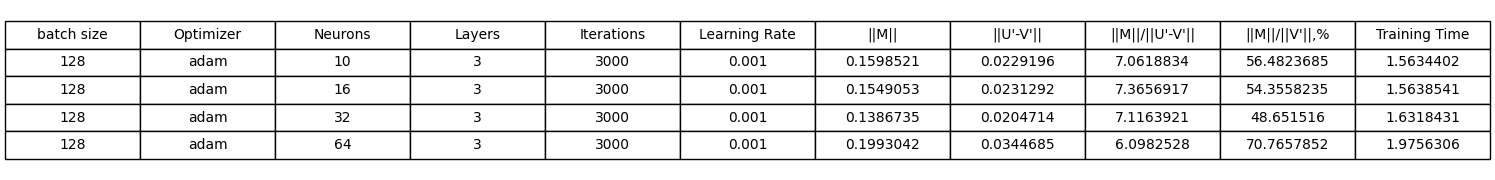
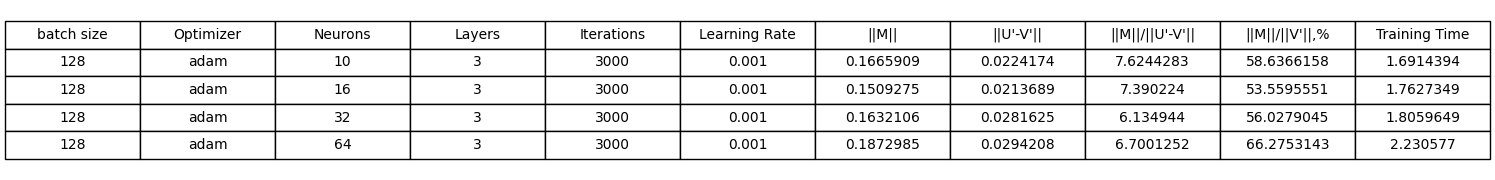
Fix compute error estimate for non default q and p

diff --git a/main.py b/main.py
@@ -207,7 +207,7 @@ if __name__ == "__main__":
     ###################################################
 
 
-    ########################### TEST №1 ###########################
+    # ########################## TEST №1 ###########################
     # filename = "(pi**2)*sin(pi*x)"
 
     # spatial_range = [0, 1]
@@ -217,9 +217,9 @@ if __name__ == "__main__":
 
     # def U(x):
     #     return tf.sin(np.pi * x)
-    ########################### TEST №1 ###########################
+    # ########################## TEST №1 ###########################
 
-    ########################### TEST №2 ###########################
+    # ########################## TEST №2 ###########################
     # filename = "-1+1"
 
     # spatial_range = [-1, 1]
@@ -229,9 +229,9 @@ if __name__ == "__main__":
 
     # def U(x):
     #     return tf.where(x < 0, 0.5 * x * (x + 1), -0.5 * x * (x - 1))
-    ########################### TEST №2 ###########################
+    # ########################## TEST №2 ###########################
 
-    ########################### TEST №3 ###########################
+    # ########################## TEST №3 ###########################
     # filename = "oscillating"
 
     # spatial_range = [0, 1]
@@ -241,9 +241,9 @@ if __name__ == "__main__":
 
     # def U(x):
     #     return tf.sin(10 * np.pi * x)
-    ########################### TEST №3 ###########################
+    # ########################## TEST №3 ###########################
 
-    ########################### TEST №4 ###########################
+    # ########################## TEST №4 ###########################
     # filename = "Peak"
 
     # spatial_range = [-5, 5]
@@ -256,7 +256,7 @@ if __name__ == "__main__":
 
     # def U(x):
     #     return -6.26657*x*tf.math.erf(np.sqrt(2)*x) - 2.5*tf.exp(-2*x*x) + 31.3329
-    ########################### TEST №4 ###########################
+    # ########################## TEST №4 ###########################
 
     # ########################### TEST №5 ###########################
     # filename = "xsin(x*x)"
@@ -281,10 +281,10 @@ if __name__ == "__main__":
     # spatial_range = [0, np.pi]
 
     # def p(x):
-    #     return 1
+    #     return tf.ones_like(x, dtype=tf.float32)
     
     # def q(x):
-    #     return 4
+    #     return 4 * tf.ones_like(x, dtype=tf.float32)
 
     # def f(x):
     #     return -tf.cos(x)
@@ -294,15 +294,15 @@ if __name__ == "__main__":
     # ########################### TEST №6 ###########################
 
     ########################### TEST №7 ###########################
-    filename = "-exp(x)*y'' - exp(x)*y = sin(x)"
+    filename = "-exp(x)*y'' - exp(x)*y' = sin(x)"
 
     spatial_range = [-np.pi/2, np.pi/2]
 
     def p(x):
-        return tf.exp(x)
+        return tf.cast(tf.exp(x), dtype=tf.float32)
     
     def q(x):
-        return 0
+        return tf.zeros_like(x, dtype=tf.float32)
 
     def f(x):
         return tf.sin(x)

diff --git a/experiments.py b/experiments.py
@@ -32,11 +32,11 @@ def create_table(data, filename):
     table = ax.table(cellText=df.values, colLabels=df.columns, loc='center', cellLoc='center', fontsize=10)
     table.auto_set_font_size(False)
     table.set_fontsize(10)
-    table.scale(1.2, 1.5)  # Adjust scale for better appearance
+    table.scale(1.2, 1.5)
 
-    plt.tight_layout()  # Adjust layout to prevent labels from overlapping
+    plt.tight_layout()
     plt.savefig(filename, bbox_inches='tight', pad_inches=0.05, transparent=True)
-    plt.close()  # Close the figure to release memory
+    plt.close()
 
 
 # @deprecated("Вычисляет квадрат нормы и использует точное решение, поэтому используй run_experiment, который использует только нейросетевое решение")
@@ -361,7 +361,7 @@ if __name__ == "__main__":
     spatial_range6 = [0, np.pi]
 
     def p(x):
-        return 1 * tf.ones_like(x, dtype=tf.float32)
+        return tf.ones_like(x, dtype=tf.float32)
     
     def q(x):
         return 4 * tf.ones_like(x, dtype=tf.float32)
@@ -376,23 +376,23 @@ if __name__ == "__main__":
     experiments(f6, U6, num_points, spatial_range6, postfix, p, q)
     ########################### TEST №6 ###########################
 
-    # ########################### TEST №7 ###########################
-    # spatial_range7 = [-np.pi/2, np.pi/2]
-
-    # def p2(x):
-    #     return tf.exp(x)
+    ########################### TEST №7 ###########################
+    spatial_range7 = [-np.pi/2, np.pi/2]
     
-    # def q2(x):
-    #     return tf.zeros_like(x, dtype=tf.float32)
+    def p2(x):
+        return tf.cast(tf.exp(x), dtype=tf.float32)
+    
+    def q2(x):
+        return tf.zeros_like(x, dtype=tf.float32)
 
-    # def f7(x):
-    #     return tf.sin(x)
+    def f7(x):
+        return tf.sin(x)
 
-    # def U7(x):
-    #     return tf.exp(-x) / (2*np.exp(np.pi) - 1)*(-2*tf.exp(x + np.pi/2) + (np.exp(np.pi) - 1)*tf.sin(x) - ((np.exp(np.pi) - 1)*tf.cos(x)) + np.exp(np.pi) + 1)
+    def U7(x):
+        return tf.exp(-x) / (2*np.exp(np.pi) - 1)*(-2*tf.exp(x + np.pi/2) + (np.exp(np.pi) - 1)*tf.sin(x) - ((np.exp(np.pi) - 1)*tf.cos(x)) + np.exp(np.pi) + 1)
 
-    # postfix = "-exp(x)*y'' - exp(x)*y = sin(x)"
-    # experiments(f7, U7, num_points, spatial_range7, postfix, p2, q2)
-    # ########################### TEST №7 ###########################
+    postfix = "-exp(x)*y'' - exp(x)*y' = sin(x)"
+    experiments(f7, U7, num_points, spatial_range7, postfix, p2, q2)
+    ########################### TEST №7 ###########################
 
     print("All experiments finished!")

diff --git a/varnn.py b/varnn.py
@@ -256,10 +256,9 @@ class VariationalNeuralNetwork:
         # 5) Находим норму невязки исходного уравнения ||f - qv + (pv')'|| = ||f - qv + p'v' + pv''||
         x_tf = tf.convert_to_tensor(x.reshape(-1, 1), dtype=tf.float32)
         f = self.right_hand_side_function(x_tf)
-        p = self.p_function(x)
+        p = self.p_function(x).numpy().reshape(-1, 1)
         dp_dx = calculate_auto_derivative(x, self.p_function)
-
-        q = self.q_function(x)
+        q = self.q_function(x).numpy().reshape(-1, 1)
 
         residual = f - q * v + dp_dx * dv_dx + p * dv_dx_dx  # f - qv + p'v' + pv''
         residual = residual.numpy().reshape(-1, 1)

diff --git a/derivative.py b/derivative.py
@@ -44,7 +44,7 @@ def calculate_auto_derivative(x, y):
     if dy_exact_dx is None:
         return 0
  
-    return tf.cast(dy_exact_dx,dtype=tf.float32)
+    return dy_exact_dx
 
 
 def get_cubic_interpolation(x, y, derivative = None):
